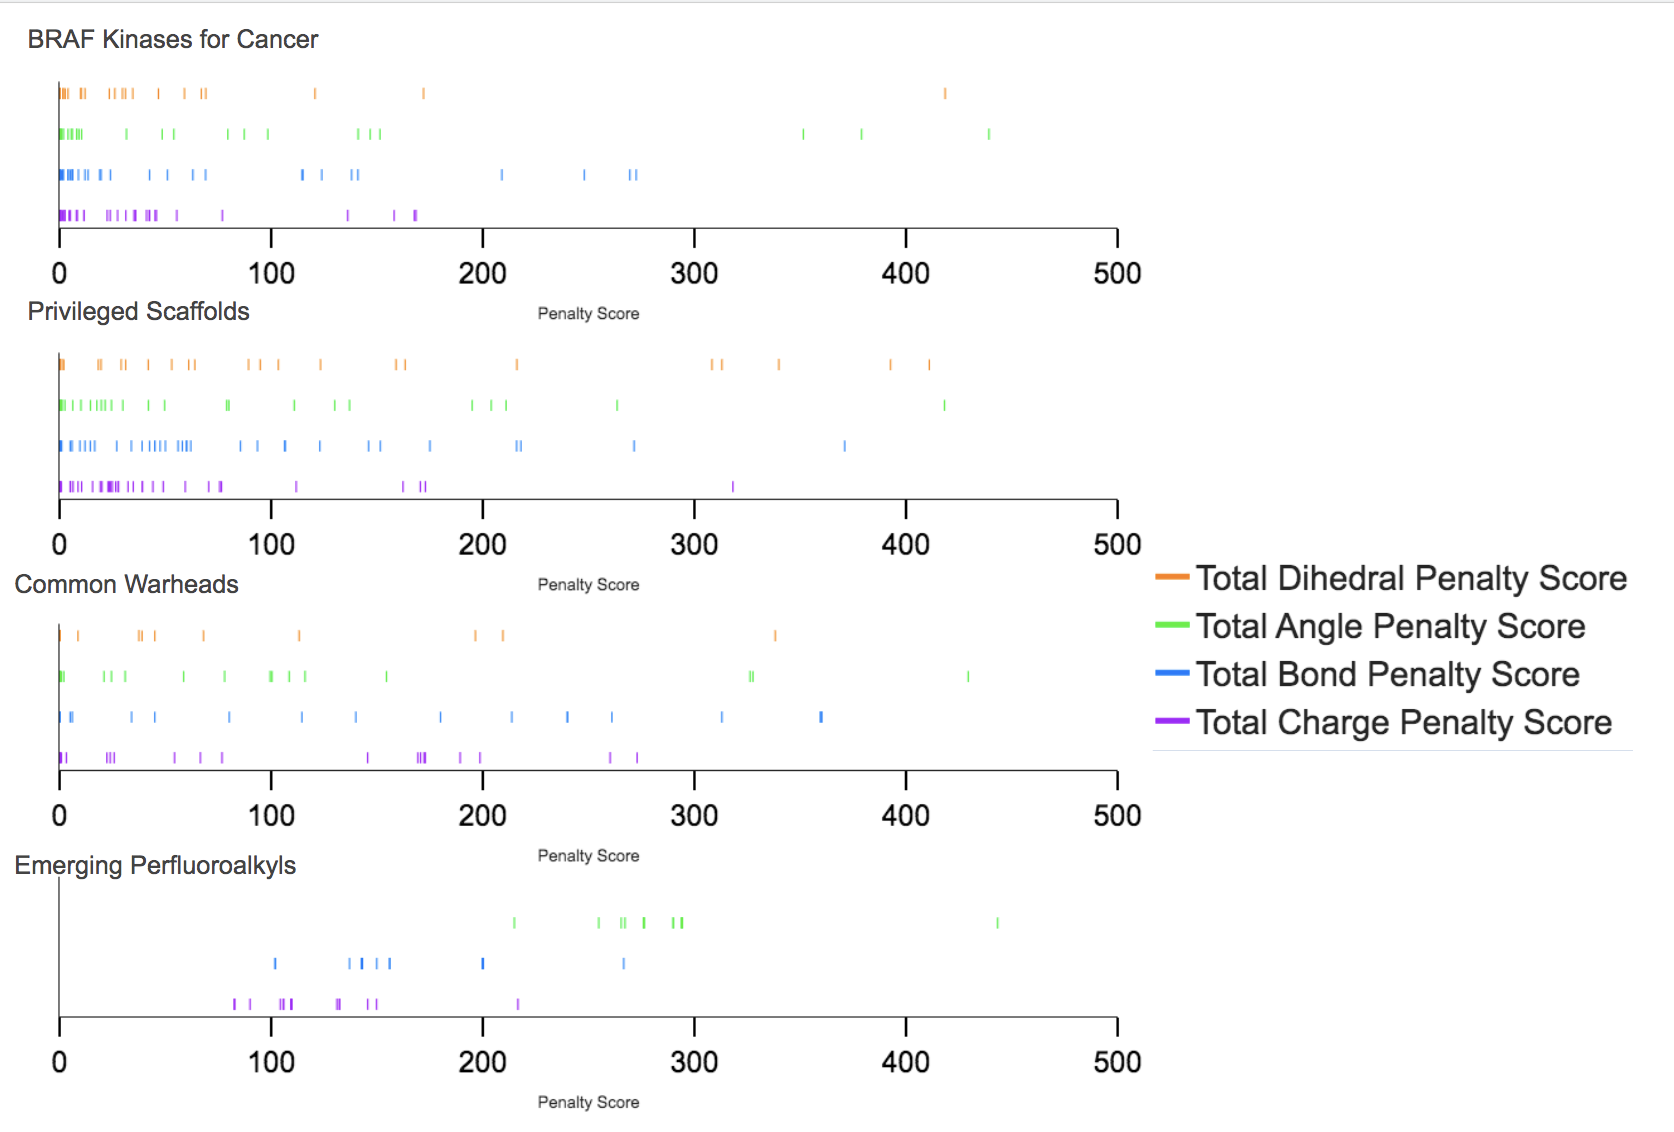
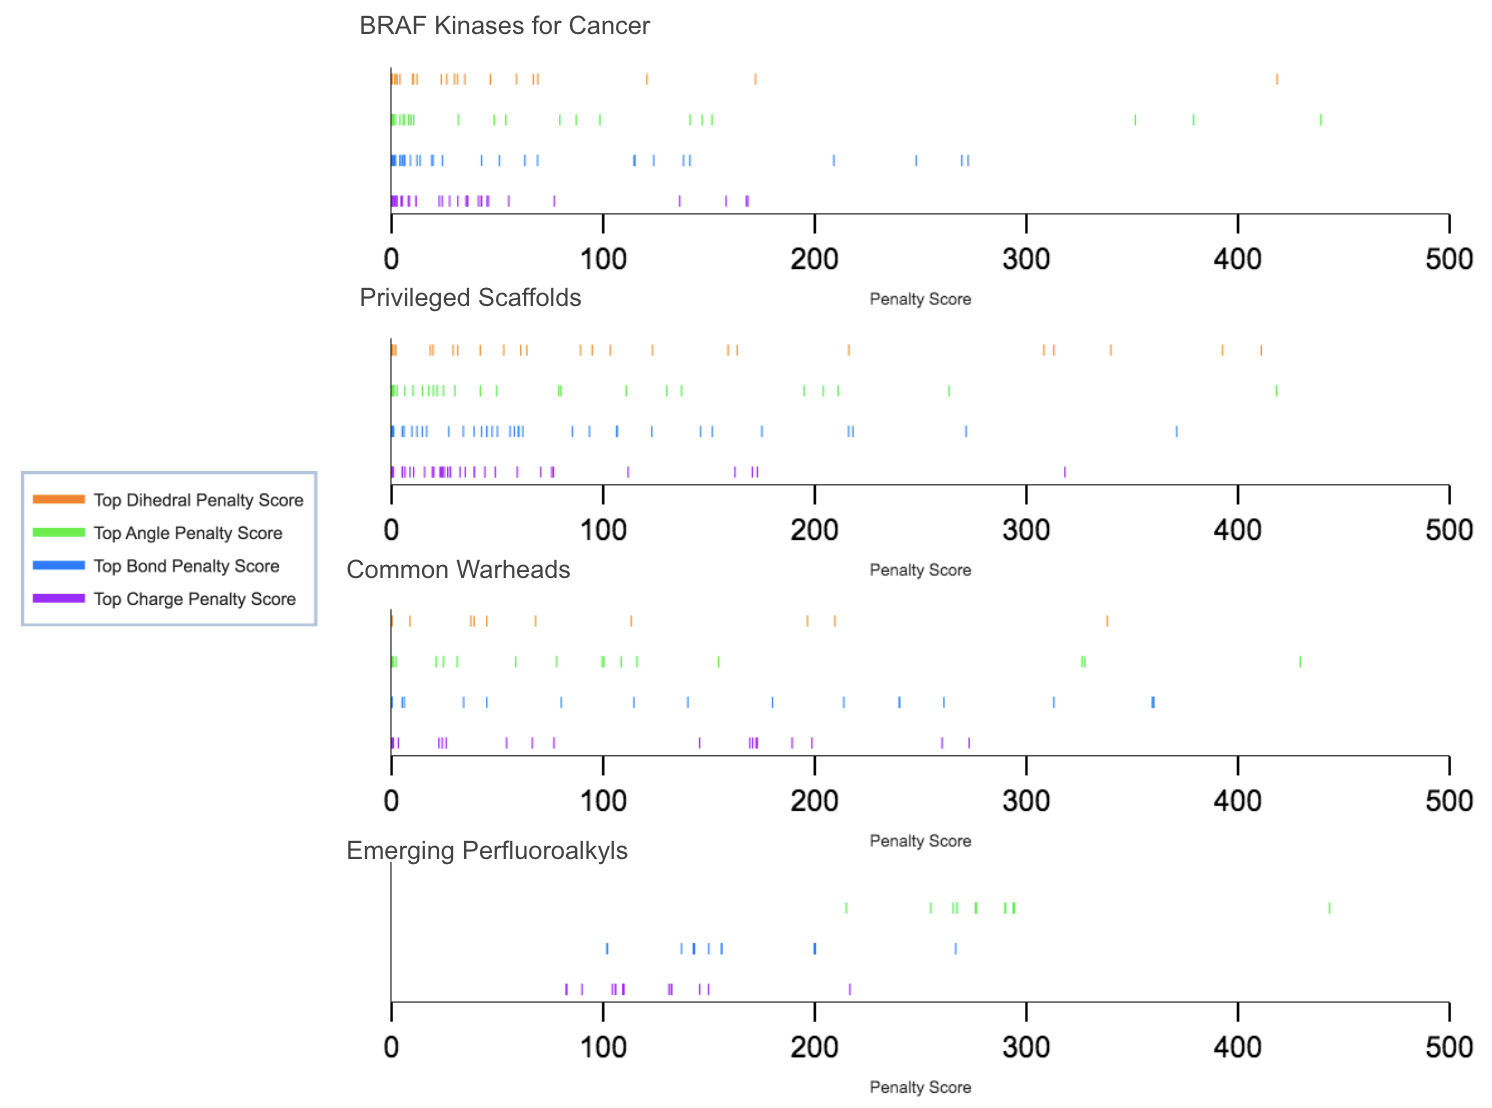
SS-MAI fixed image, implemente ruibin changes, did some of my own

diff --git a/paper.md b/paper.md
@@ -26,8 +26,8 @@ Toll-Like Receptors in an object-oriented fashion [Perez-Regidor:2016-9]. These 
 to reproduce as well as can be difficult to implement given the amount of data. When applying these papers they don't provide
 so much use to the common developer. So what do we do?
 
-To organize the data we need to revert back to the idea of simplistic communication and distribution. Humans use symbols and drawings to communicate, a set of symbols and their combinations
-are called a language. Different languages can be employed to carry different features and mean different things to a variety of communities as they infer meaning. 
+To organize the data we need to revert back to the idea of simplistic communication and distribution. Humans use symbols and drawings to communicate, a set of symbols and the rules to combining them are called a language.
+Different languages can be employed to carry different features and mean different things to a variety of communities as they infer meaning. 
 IUPAC was a written language that predates even drawing atoms as a method of communication between chemists [Cooke-Fox:1989-5]; 
 other chemical sub-communities also adopted the language and applied to their field to different dialects i.e polymer chemistry, organo-metallic chemistry.
 In the recent years, SMILES [Weininger:1988-5] is becoming a popular 1-D language amongst cheminformaticians as a sufficient way to write and retain 2D or 3D geometry with ease.
@@ -115,7 +115,7 @@ At the time of writing the list now the list stands at:
 | Common R Group Replacements         | IUPAC/SMILES/SMARTS          | 499          | [Takeuchi:2021-9]        |
 | Electrophillic Warheads for Kinases | Preferred Name/SMILES/SMARTS | 24           | [Petri:2020-12]          |
 | Privileged Scaffolds for Kinases    | IUPAC/SMILES/SMARTS          | 29           | [Hu:2021-3]              |
-| BRaf Inhibitors                     | IUPAC/SMILES/SMARTS          | 54           | [Agianian:2018-6]        |
+| BRAF Inhibitors                     | IUPAC/SMILES/SMARTS          | 54           | [Agianian:2018-6]        |
 | Common Amino Acid Protecting Groups | IUPAC/ACRONYM/SMILES/SMARTS  | 346          | [Isidro-Llobet:2009-6]   |
 | Emerging Perfluoroalkyls            | IUPAC/SMILES/SMARTS          | 27           | [Pelch:2019-9]           |
 | Chemicals For Clay Adsorption       | IUPAC/SMILES/SMARTS          | 33           | [Orr:2019-9]             |
@@ -139,10 +139,10 @@ Two open-source cheminformatic platforms have taken staple as foundational tools
 passed into a `Mol` RDKit object and `Indigo.loadMolecule()` object where any failures are recorded logged in Table 2. Cheminformatic interoperability
 between different platforms promotes a unification. This can be expanded into OpenBabel and many others as a tolerance checker.
 
-| Software | Number of Failed Compounds | Example Failed SMILES                                                                                                                                                                        |
-|----------|----------------------------|----------------------------------------------------------------------------------------------------------------------------------------------------------------------------------------------|
-| RDKit    | 11                         | 'CSi(C(C)(C)C)C', 'CC(Si(C1=CC=CC=C1)C2=CC=CC=C2)(C)C', 'n1cncn1', 'C&1&1&1',  'c1ccccc1C&1&1', 'n1cccc1', 'C&1&1&1&1', 'n1ccnc1C'                                                           |
-| Indigo   | 8                          | 'C&1&1&1&1', 'C&1&1&1', 'c1ccccc1C&1&1', 'CSi(C(C)(C)C)C', 'CC(Si(C1=CC=CC=C1)C2=CC=CC=C2)(C)C', 'CSi(C(C)(C)C)C', 'CC(Si(C1=CC=CC=C1)C2=CC=CC=C2)(C)C'                                      |
+| Software | Number of Failed Compounds | Example of Failed SMILES                                |
+|----------|----------------------------|---------------------------------------------------------|
+| RDKit    | 11                         | 'CSi(C(C)(C)C)C', 'C&1&1&1&1',                          |
+| Indigo   | 8                          | 'C&1&1&1&1', 'CC(Si(C1=CC=CC=C1)C2=CC=CC=C2)(C)C'       |
 
 <p align="center">
   <i>Table 2: GlobalChem Tolerable Results</i>
@@ -174,7 +174,7 @@ equation.
 We looked at BRAF Kinases Inhibitors for Cancer (54), Privileged Scaffolds (47), Common Warheads (29), Emerging PerfluoroAlkyls (27).
 Any kinase inhibitors should exhibit drug-like features similar to what was chosen to CGenFF, privileged scaffolds are any 
 elected scaffolding produced by nature, warheads designed for covalent inhibition, and a stretch into herbicides and toxicity
-that could be used to kill us. 3 Failures were captured primarily due to the sulphonyl `SH` and the salt `O` to potassium.
+that could be used to kill us. 3 Failures were captured primarily due to the sulphonyl `SH` and the activated oxygen to it's potassium salt counter anion in the perfluoroalkyl. 
 
 <p align="center">
   <img width="500" height="100" src="images/figures/figure_6.png">
